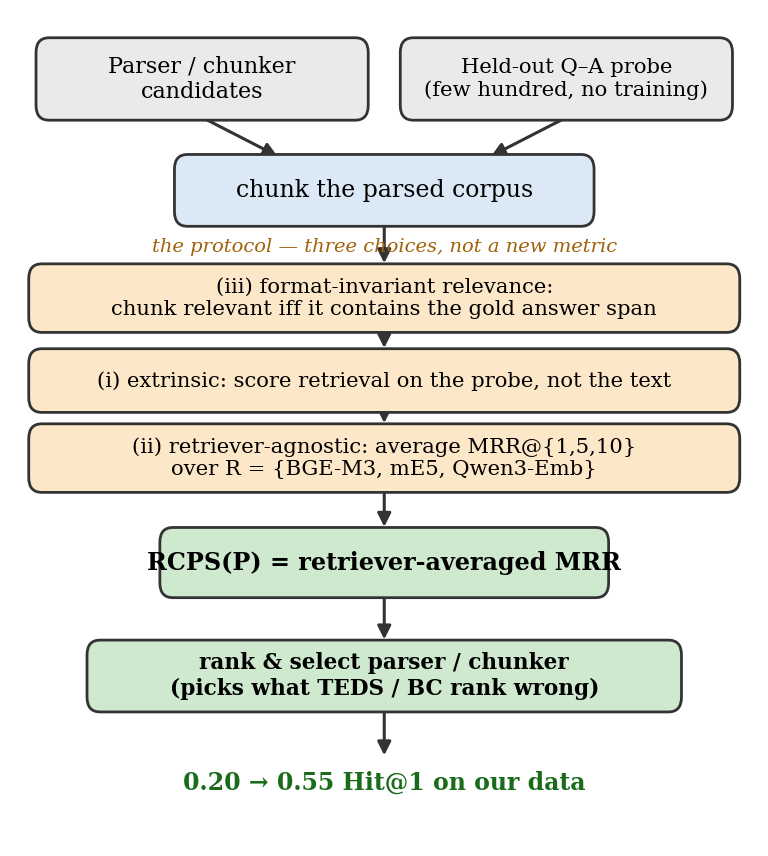
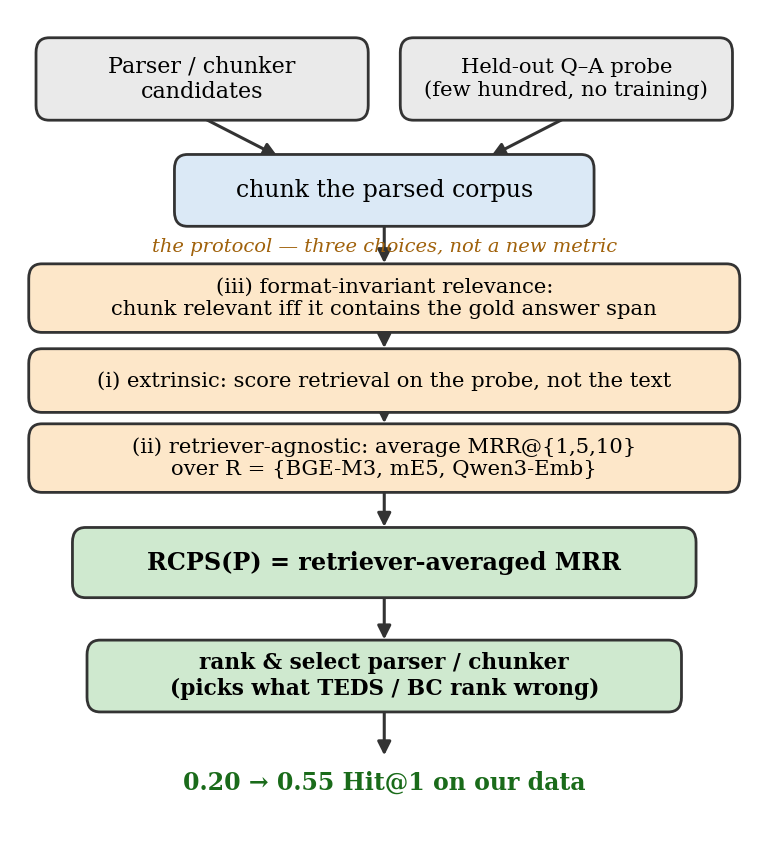
fig: widen RCPS(P) box so the (larger) bold formula text fits

Changed region(s): [[0.7812, 0.6075, 0.9062, 0.6986], [0.0938, 0.6075, 0.2188, 0.6986]]

diff --git a/scripts/figures/make_fig_rcps_protocol.py b/scripts/figures/make_fig_rcps_protocol.py
@@ -69,7 +69,7 @@ def main() -> None:
     arrow(ax, 0.5, 0.527, 0.5, 0.499)
 
     # RCPS score
-    box(ax, 0.20, 0.300, 0.60, 0.070, "RCPS(P) = retriever-averaged MRR",
+    box(ax, 0.08, 0.300, 0.84, 0.070, "RCPS(P) = retriever-averaged MRR",
         "#cfe9cf", 8.6, bold=True)
     arrow(ax, 0.5, 0.429, 0.5, 0.372)
 
